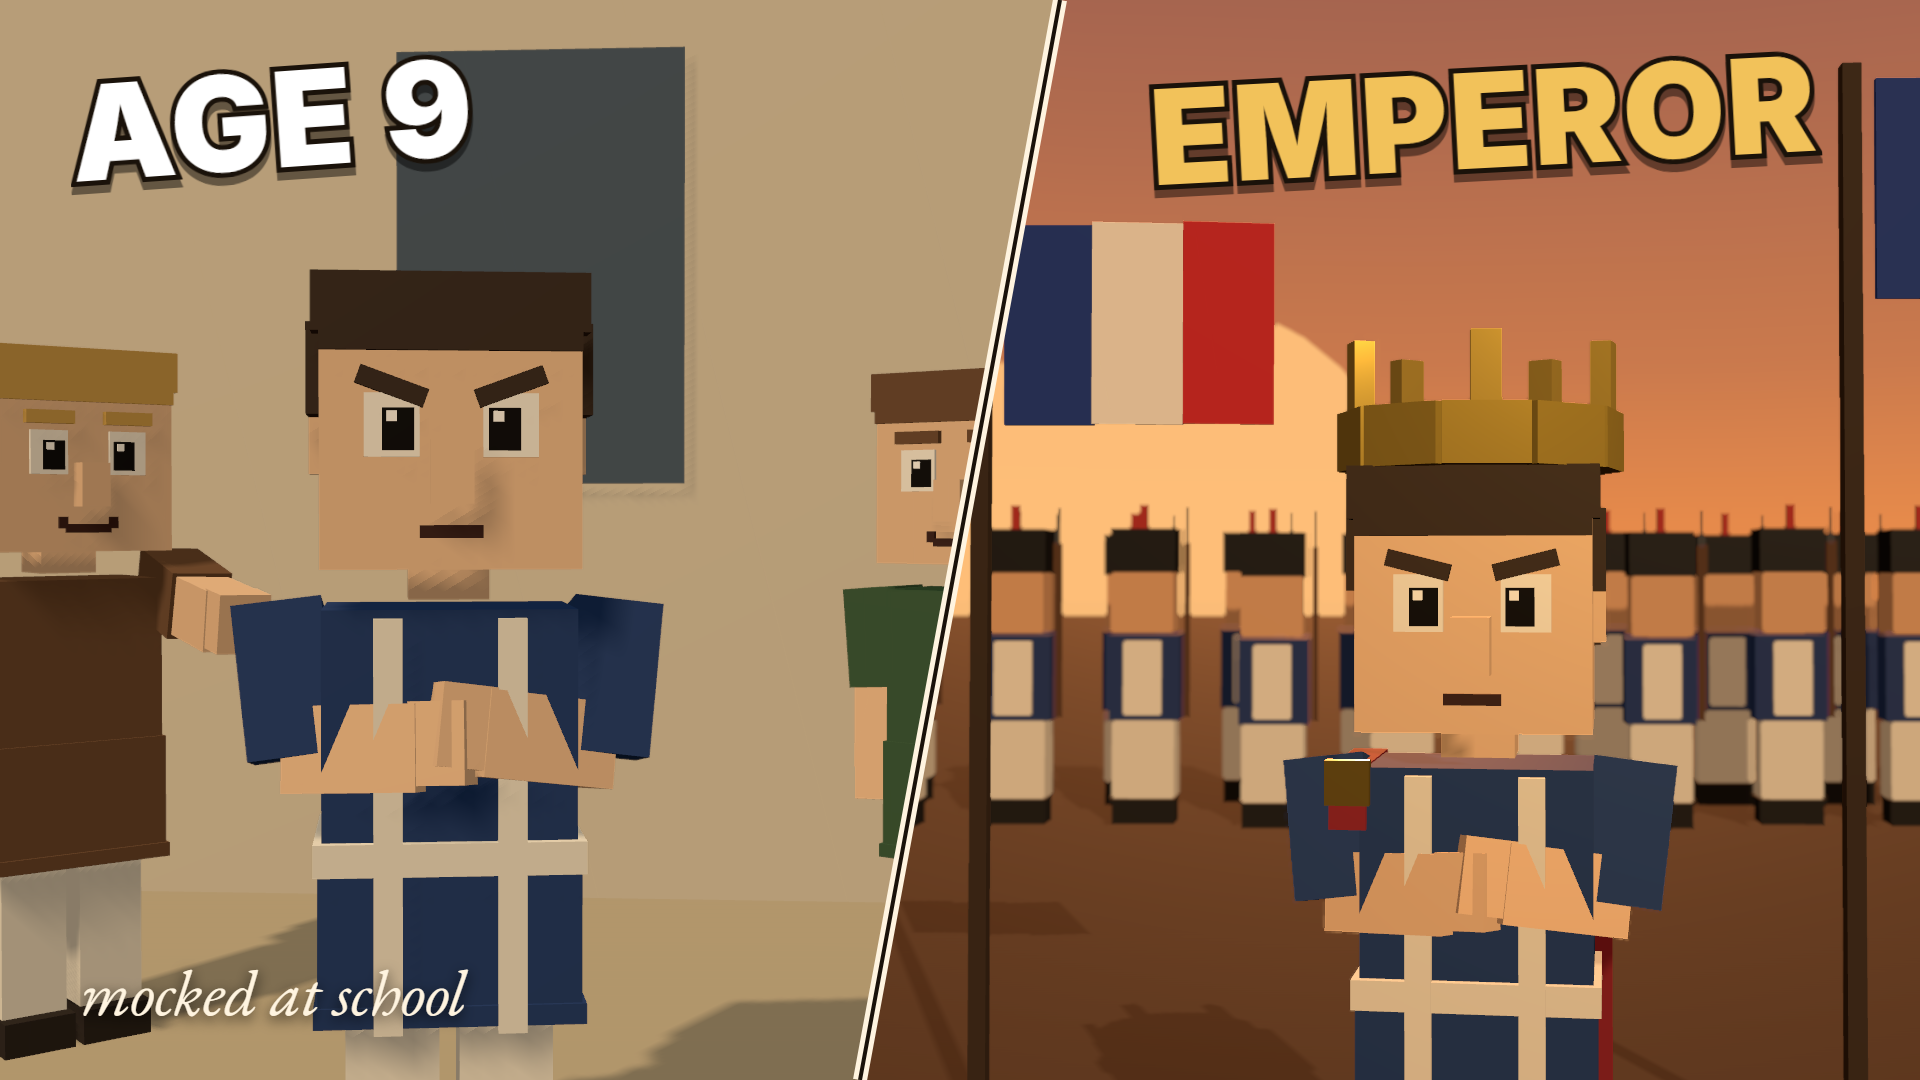
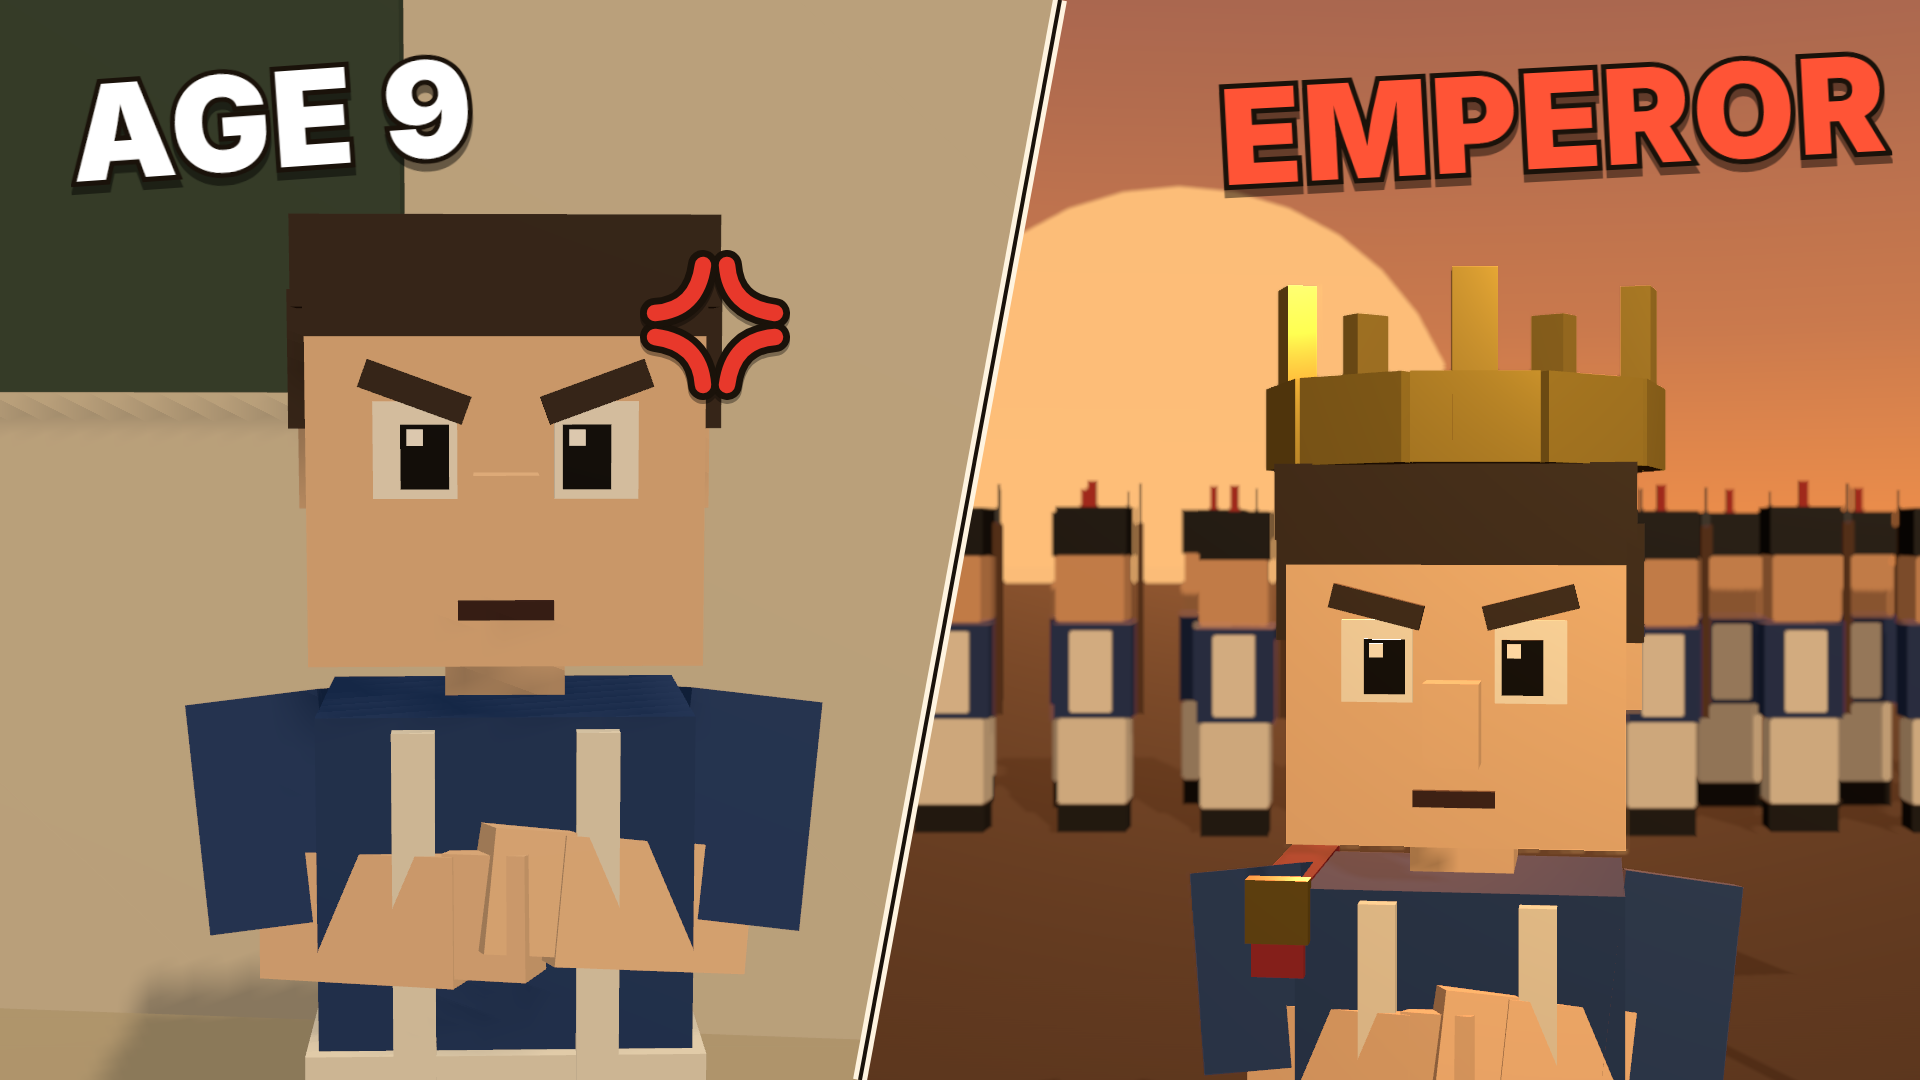
New-style wide YouTube thumbnails for Napoleon and Saladin long videos

diff --git a/marketing/remotion/src/lang/CaesarThumb.tsx b/marketing/remotion/src/lang/CaesarThumb.tsx
@@ -84,3 +84,98 @@ export const CaesarThumb = () => (
     {void [CAESAR, SENATOR, Dolk, AURELIA, Avondlicht, SERIF]}
   </AbsoluteFill>
 );
+
+/** Gedeelde opbouw van de brede thumbnail (sinds Caesar): close-ups, lichte achtergrond, boos-teken, geen kleine tekst. */
+const Breed = ({ links, rechts, woordLinks, woordRechts }: { links: ReactNode; rechts: ReactNode; woordLinks: string; woordRechts: string }) => (
+  <AbsoluteFill style={{ background: '#1A120A' }}>
+    <Helft links focus={[0.2, 0.95, 0.2]}>
+      <Camera pos={[0.35, 1.0, 1.55]} kijk={[0.22, 0.86, 0.2]} fov={34} />
+      {links}
+    </Helft>
+    <Helft links={false} focus={[0, 2.2, 0]}>
+      {rechts}
+    </Helft>
+    <svg width="1920" height="1080" style={{ position: 'absolute', inset: 0 }}>
+      <line x1="1060" y1="0" x2="860" y2="1080" stroke="#FFF4E0" strokeWidth="14" />
+      <line x1="1060" y1="0" x2="860" y2="1080" stroke="#1A120A" strokeWidth="4" />
+    </svg>
+    <Boos x={640} y={250} maat={150} />
+    <Label tekst={woordLinks} x={70} y={40} kleur="#FFFFFF" rot={-4} />
+    <Label tekst={woordRechts} x={woordRechts.length > 7 ? 1150 : 1220} y={40} kleur="#FF5436" rot={-3} />
+  </AbsoluteFill>
+);
+
+/** Saladin (YouTube): links het kind in de nacht van de vlucht, rechts de sultan voor zijn leger. */
+export const SaladinThumbBreed = () => (
+  <Breed
+    woordLinks="AGE 0"
+    woordRechts="SULTAN"
+    links={
+      <>
+        <Lucht boven="#1C2A4A" horizon="#3A5080" />
+        <Nachtlicht />
+        <hemisphereLight args={['#9DB4E0', '#3A2A20', 0.9]} />
+        <Grond kleur="#6A5A44" />
+        <Blok p={[0, 3, -1.2]} s={[8, 6, 0.4]} c="#7A6A58" />
+        <Blok p={[-0.5, 1.3, -0.95]} s={[0.9, 0.9, 0.05]} c="#8A5A32" />
+        <Blok p={[-0.5, 1.3, -0.92]} s={[0.76, 0.76, 0.05]} c="#2A3A66" />
+        <Blok p={[-0.5, 1.3, -0.88]} s={[0.05, 0.76, 0.04]} c="#8A5A32" />
+        <Blok p={[-0.5, 1.3, -0.88]} s={[0.76, 0.05, 0.04]} c="#8A5A32" />
+        <Fakkel position={[0.85, 0, -0.6]} />
+        <pointLight position={[0.8, 1.0, -0.2]} intensity={2.2} distance={2.2} color="#FFA850" />
+        <pointLight position={[0.5, 0.95, 0.9]} intensity={2.4} distance={2.5} color="#FFC890" />
+        <Figuur kleding={YUSUF} hoofddeksel="tulband" position={[0.2, 0, 0.2]} rotation={[0, 0.12, 0]} scale={0.45} pose={{ wenk: 1, mond: 'open', armL: { schouder: [-1.2, 0, 0.4], elleboog: [0, -1.0] }, armR: { schouder: [-1.2, 0, -0.4], elleboog: [0, 1.0] } }} />
+      </>
+    }
+    rechts={
+      <>
+        <Lucht boven="#3E2E52" horizon="#F0904A" onder="#2A1A12" />
+        <Zon position={[-12, 6, -90]} grootte={16} kleur="#FFC07A" />
+        <Avondlicht />
+        <Daglicht zon={[4, 10, 10]} kracht={1.2} />
+        <Camera pos={[-0.15, 2.2, 3.0]} kijk={[-0.15, 2.1, 0]} fov={36} />
+        <Grond kleur="#B8986A" />
+        <Duinen kleur="#A8865A" />
+        <Blok p={[0, 3, -16]} s={[30, 6, 2]} c="#CDB894" />
+        <Leger rijen={2} kolommen={12} kleur="#E2D6BC" schild="#C99A2E" position={[0, 0, -9]} />
+        <Figuur kleding={SALADIN} hoofddeksel="tulband" baard position={[0, 0, 0]} rotation={[0, -0.12, 0]} pose={{ ...ARMEN_GEKRUIST, wenk: 0.6 }} />
+        <pointLight position={[0.6, 3.0, 1.6]} intensity={4} distance={4} color="#FFE08A" />
+      </>
+    }
+  />
+);
+
+/** Napoleon (YouTube): links de gepeste scholier van negen, rechts de keizer met kroon en driekleuren. */
+export const NapoleonThumbBreed = () => (
+  <Breed
+    woordLinks="AGE 9"
+    woordRechts="EMPEROR"
+    links={
+      <>
+        <Lucht boven="#9EC1DB" horizon="#EADFC6" />
+        <Daglicht zon={[3, 6, 6]} kracht={1.6} omgeving={1.5} />
+        <Grond kleur="#B7A88A" />
+        <Blok p={[0, 3, -1.2]} s={[8, 6, 0.4]} c="#D9CDB6" />
+        <Blok p={[-0.55, 1.25, -0.97]} s={[0.95, 0.6, 0.04]} c="#3A4A3A" />
+        <Figuur kleding={{ ...NAPOLEON, laarzen: undefined }} position={[0.2, 0, 0.2]} rotation={[0, 0.12, 0]} scale={0.45} pose={{ wenk: 1, mond: 'dicht', ...ARMEN_GEKRUIST }} />
+      </>
+    }
+    rechts={
+      <>
+        <Lucht boven="#3E2E52" horizon="#F0904A" onder="#2A1A12" />
+        <Zon position={[-12, 6, -90]} grootte={16} kleur="#FFC07A" />
+        <Avondlicht />
+        <Binnenlicht zon={[4, 8, 10]} kleur="#FFD8A8" />
+        <Camera pos={[-0.15, 2.3, 3.3]} kijk={[-0.15, 2.3, 0]} fov={36} />
+        <Grond kleur="#4A3424" />
+        <Leger tijd="1800" rijen={2} kolommen={12} position={[0, 0, -11]} />
+        <Driekleur position={[2.0, 0, -2.6]} hoogte={3.2} />
+        <Figuur kleding={NAPOLEON_KROONMANTEL} position={[0, 0, 0]} rotation={[0, -0.12, 0]} pose={{ ...ARMEN_GEKRUIST, wenk: 0.7 }} />
+        <group position={[0, 2.38, 0]} scale={1.15}>
+          <Kroon />
+        </group>
+        <pointLight position={[0.6, 3.2, 1.6]} intensity={4} distance={4} color="#FFE08A" />
+      </>
+    }
+  />
+);

diff --git a/marketing/remotion/src/Root.tsx b/marketing/remotion/src/Root.tsx
@@ -13,7 +13,7 @@ import { NapoleonThumb } from './lang/Thumbnail';
 import { SALADIN_LANG_DUUR, SaladinLang } from './lang/SaladinLang';
 import { SaladinThumb } from './lang/SaladinThumb';
 import { CAESAR_LANG_DUUR, CaesarLang } from './lang/CaesarLang';
-import { CaesarThumb } from './lang/CaesarThumb';
+import { CaesarThumb, NapoleonThumbBreed, SaladinThumbBreed } from './lang/CaesarThumb';
 import { CaesarOmslag, CaesarOmslagSmal, NapoleonOmslag, NapoleonOmslagSmal, SaladinOmslag, SaladinOmslagSmal } from './lang/CaesarOmslag';
 import { CAESAR_TRAILER_DUUR, WatAlsCaesarTrailer } from './watals/WatAlsCaesarTrailer';
 import { NapoleonThumbStaand } from './lang/ThumbnailStaand';
@@ -55,6 +55,8 @@ export const Root = () => (
     <Composition id="lang-caesar" component={CaesarLang} durationInFrames={CAESAR_LANG_DUUR} fps={FPS} width={1920} height={1080} defaultProps={{ muziek: true }} />
     <Composition id="watals-caesar-trailer" component={WatAlsCaesarTrailer} durationInFrames={CAESAR_TRAILER_DUUR} fps={FPS} width={W} height={H} />
     <Still id="lang-caesar-thumb" component={CaesarThumb} width={1920} height={1080} />
+    <Still id="lang-saladin-thumb-breed" component={SaladinThumbBreed} width={1920} height={1080} />
+    <Still id="lang-napoleon-thumb-breed" component={NapoleonThumbBreed} width={1920} height={1080} />
     <Still id="lang-caesar-omslag" component={CaesarOmslag} width={1920} height={1080} />
     <Still id="lang-saladin-omslag" component={SaladinOmslag} width={1920} height={1080} />
     <Still id="lang-napoleon-omslag" component={NapoleonOmslag} width={1920} height={1080} />

diff --git a/marketing/remotion/src/lang/CaesarOmslag.tsx b/marketing/remotion/src/lang/CaesarOmslag.tsx
@@ -59,7 +59,7 @@ const Stapel = ({ boven, onder, woordBoven, woordOnder, focusOnder = [0, 2.1, 0]
   return (
   <AbsoluteFill style={{ background: '#1A120A' }}>
     <Band boven focus={[0.2, 0.95, 0.2]}>
-      <Camera pos={[0.2, 0.92, 1.85]} kijk={[0.2, 0.95, 0.2]} fov={30} />
+      <Camera pos={[0.2, 0.92, 1.85]} kijk={[0.2, smal ? 1.07 : 0.95, 0.2]} fov={30} />
       {boven}
     </Band>
     <Band boven={false} focus={focusOnder}>
@@ -69,8 +69,8 @@ const Stapel = ({ boven, onder, woordBoven, woordOnder, focusOnder = [0, 2.1, 0]
       <line x1="0" y1="560" x2="1920" y2="520" stroke="#FFF4E0" strokeWidth="12" />
       <line x1="0" y1="560" x2="1920" y2="520" stroke="#1A120A" strokeWidth="3" />
     </svg>
-    <Boos x={smal ? 1095 : 1085} y={smal ? 190 : 175} maat={smal ? 100 : 115} />
-    <Label tekst={woordBoven} top={smal ? 36 : 28} links={smal ? 676 : 590} kleur="#FFFFFF" rot={-4} maat={smal ? 78 : 96} />
+    <Boos x={smal ? 1095 : 1085} y={smal ? 265 : 175} maat={smal ? 100 : 115} />
+    <Label tekst={woordBoven} top={smal ? 104 : 28} links={smal ? 676 : 590} kleur="#FFFFFF" rot={-4} maat={smal ? 78 : 96} />
     <Label tekst={woordOnder} top={smal ? 490 : 478} kleur="#FF5436" rot={-3} maat={smal ? Math.min(100, Math.floor(600 / woordOnder.length)) : 108} />
   </AbsoluteFill>
   );
